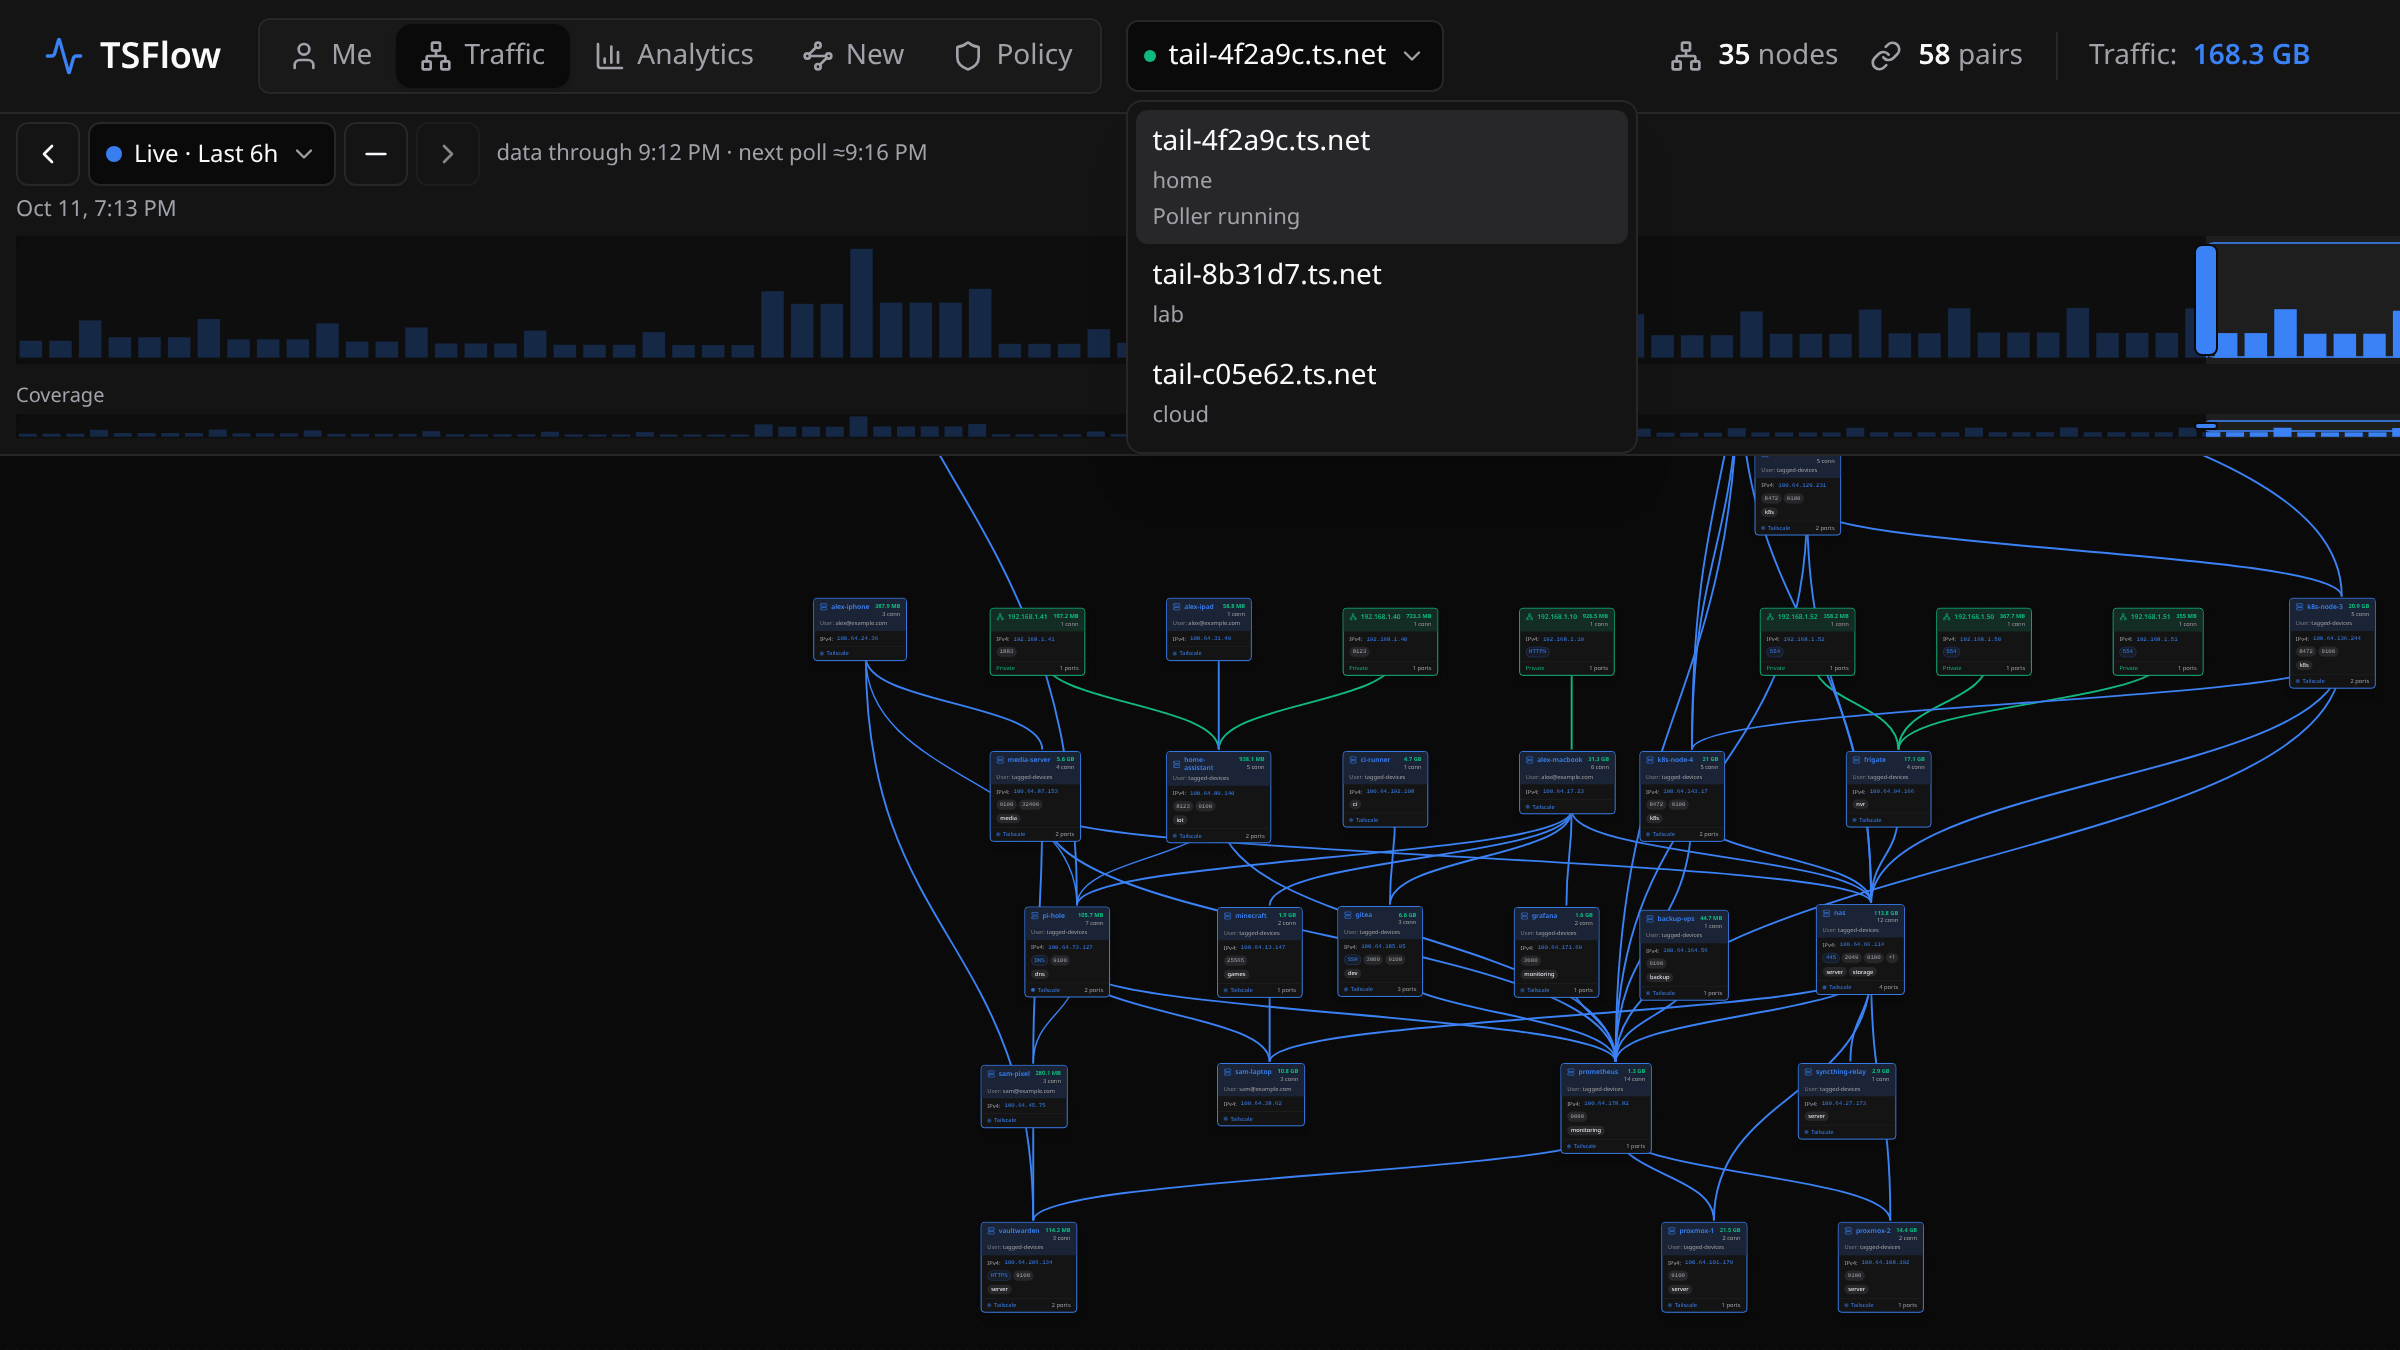
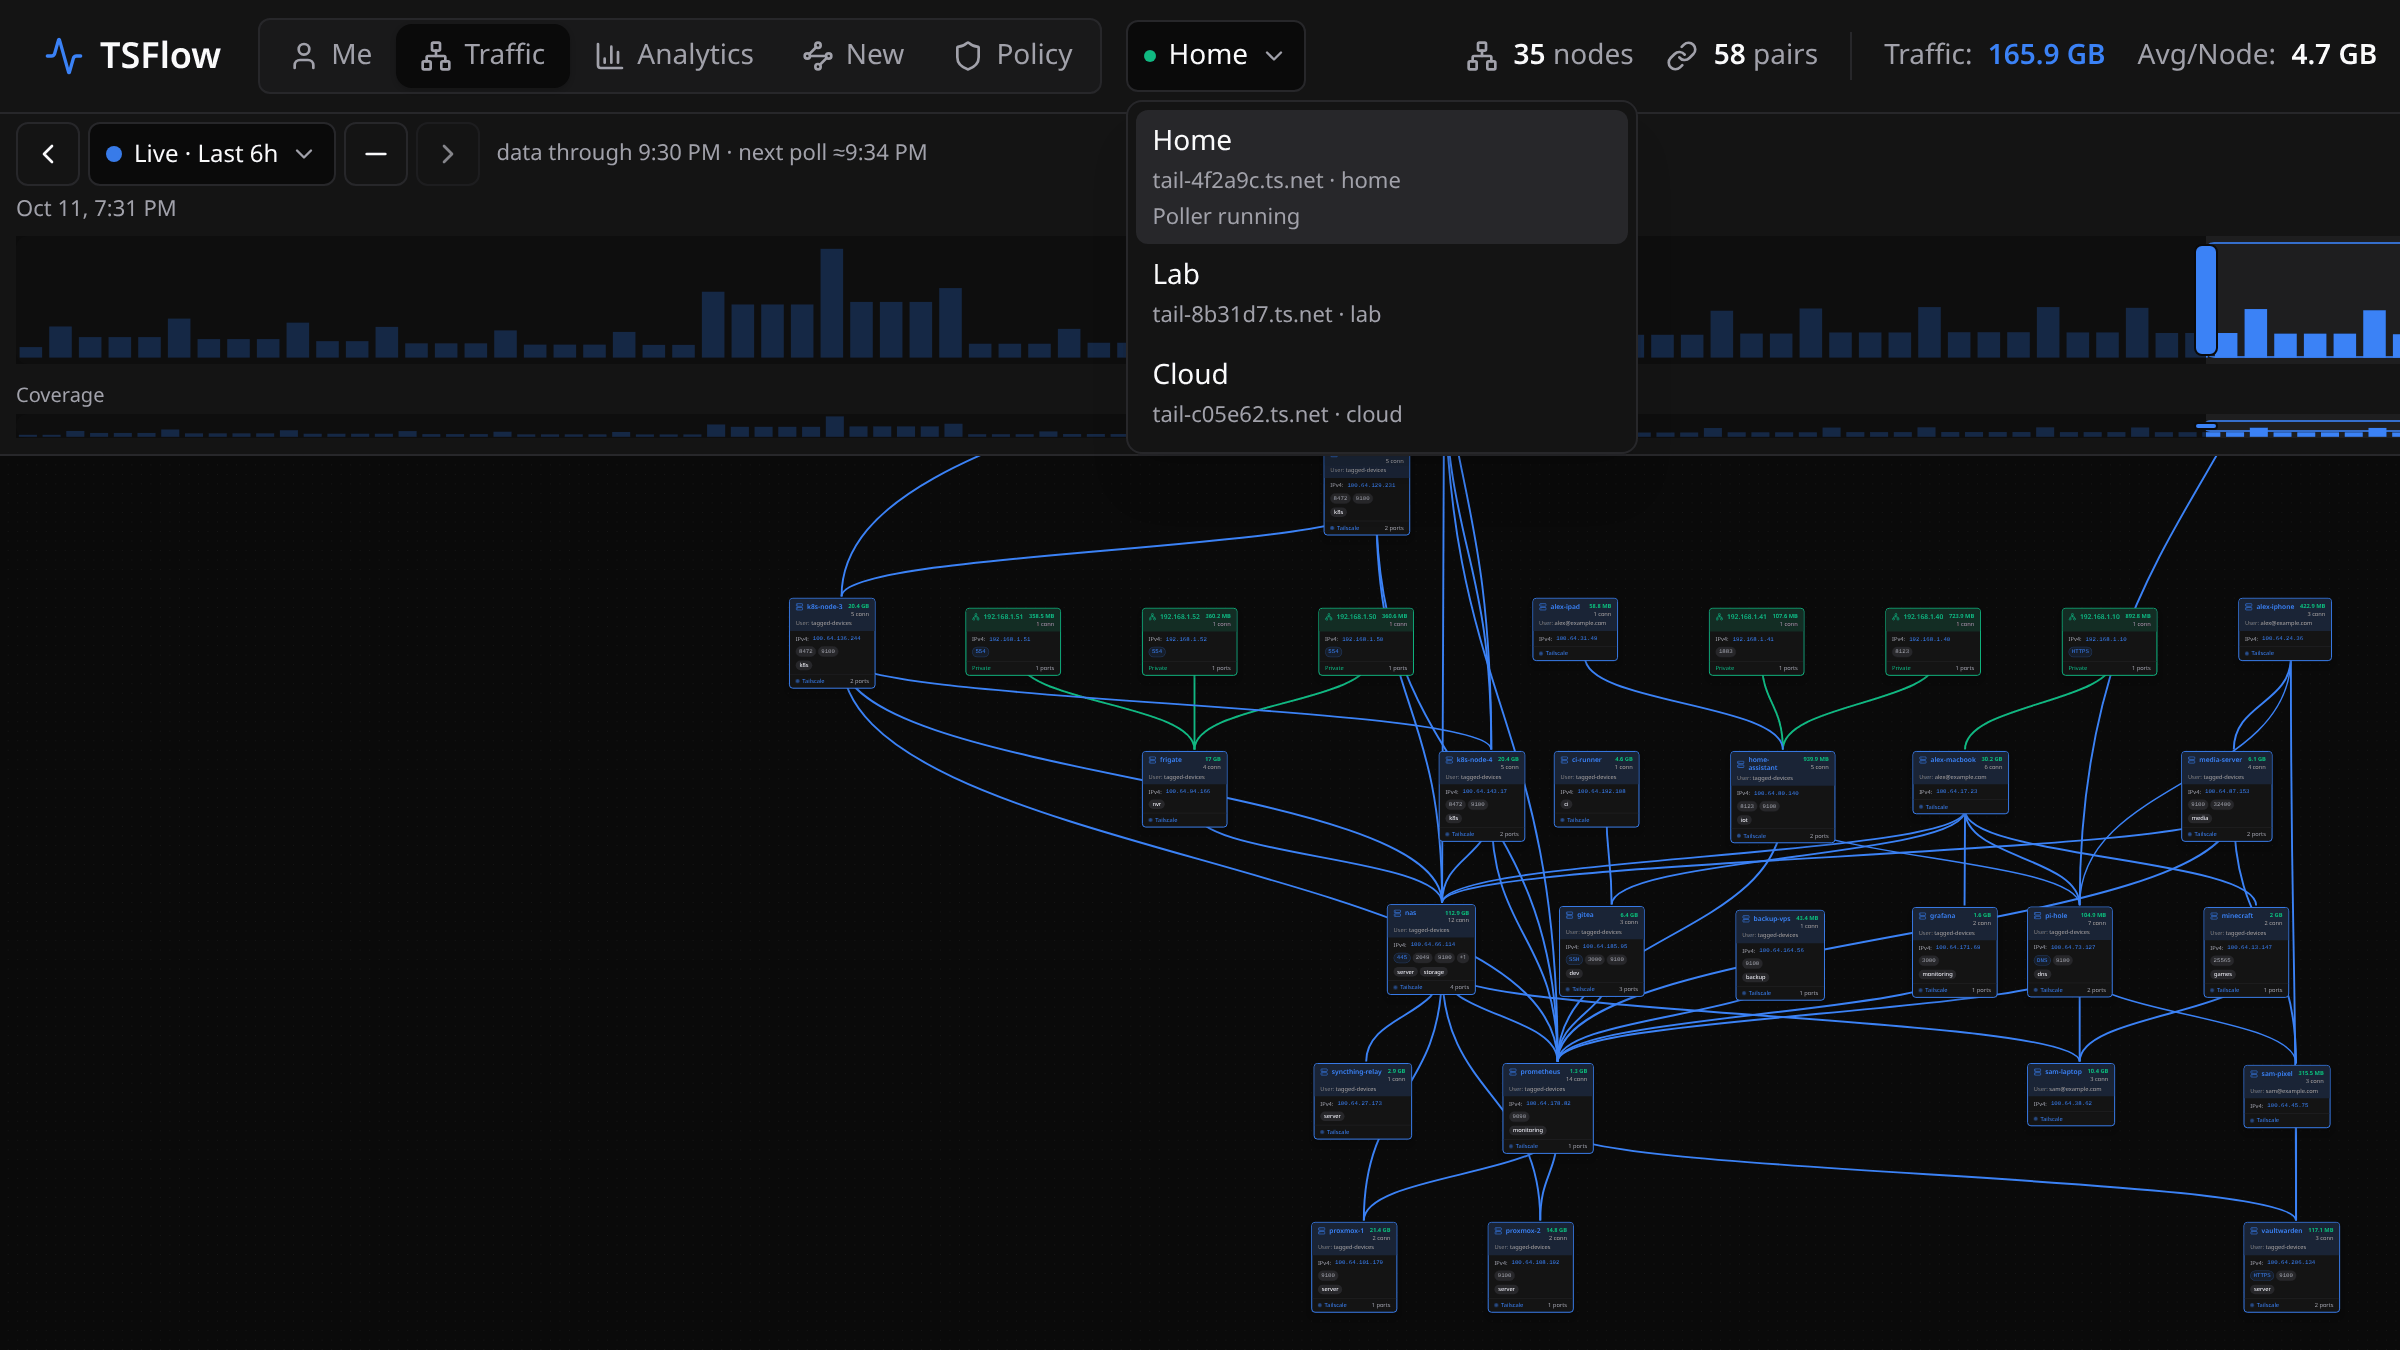
Reshoot the tailnet switcher with display names

diff --git a/README.md b/README.md
@@ -94,11 +94,11 @@ The single-tailnet environment variables configure one tailnet with id `default`
 
 Data routes take an optional `tailnet` query parameter. With one configured tailnet the parameter can be omitted, and the JSON matches a single-tailnet install. With several tailnets, a missing parameter uses id `default` when that id is configured. If it is not, the response is 400 and lists the valid ids. An unknown id is 404. `GET /api/tailnets` returns each id, display name, and poller status, including the last error. It does not return credentials. The UI calls `GET /api/tailnets` once on load. With one tailnet it shows no switcher and leaves data requests unchanged. With several, a header switcher keeps the choice in the `tailnet` query parameter and sends that id on data requests.
 
-**Tailnet switcher**: pick a tailnet from the header. Each entry shows its tailnet name and id.
+**Tailnet switcher**: pick a tailnet from the header. Each entry shows its `display_name`, with the tailnet name and id underneath. Without a `display_name`, the tailnet name is the label.
 
 <picture>
   <source media="(prefers-color-scheme: dark)" srcset="docs/images/tailnet-switcher-dark.png">
-  <img alt="Header tailnet switcher open, listing three tailnets" src="docs/images/tailnet-switcher.png">
+  <img alt="Header tailnet switcher open, listing three tailnets named Home, Lab and Cloud" src="docs/images/tailnet-switcher.png">
 </picture>
 
 ```yaml
